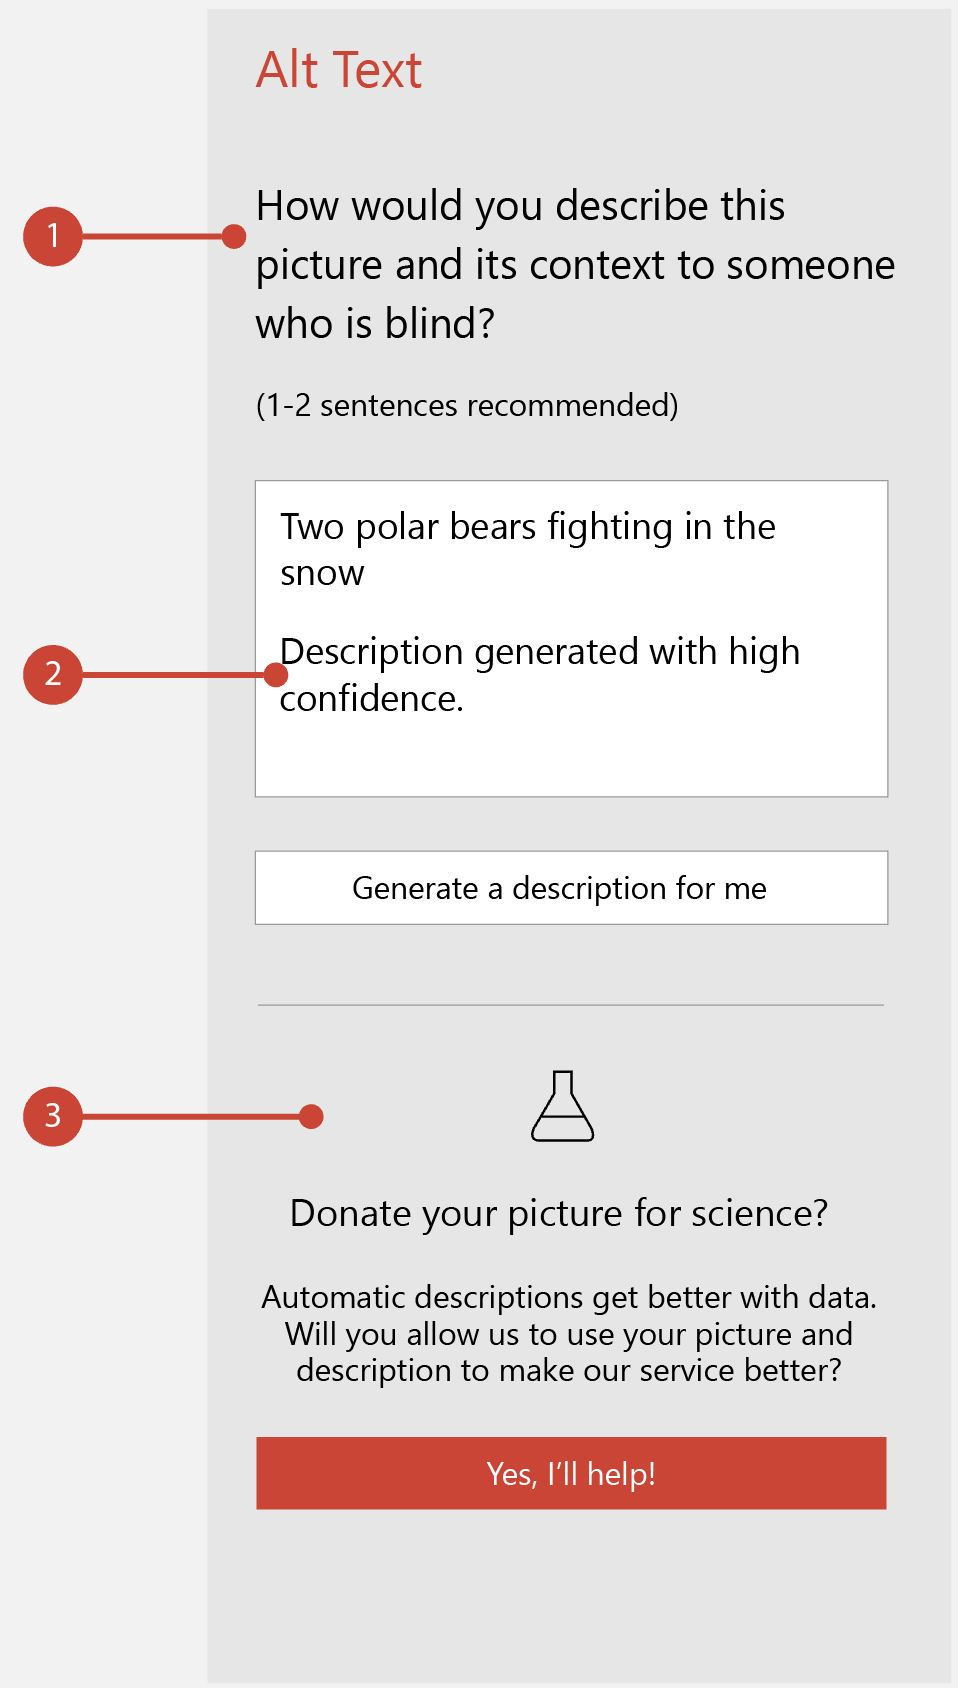
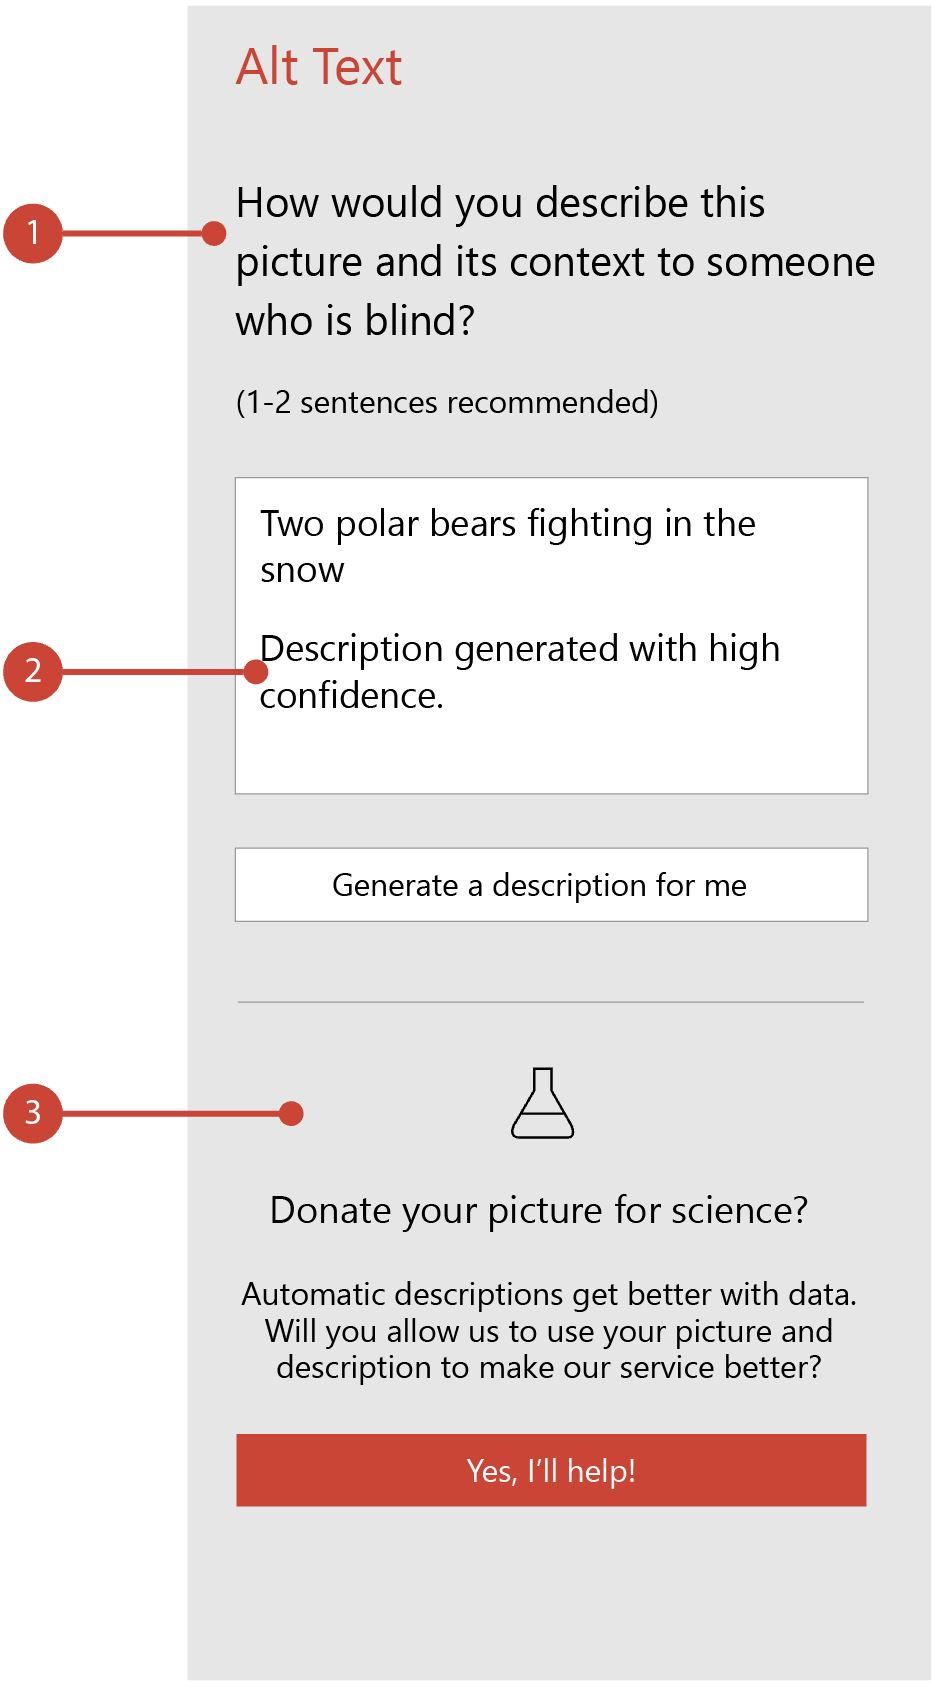
carosel improvements

diff --git a/src/auto-alt-text/index.html b/src/auto-alt-text/index.html
@@ -112,16 +112,17 @@
             <div class="col-md-5">
                 <h3>Methods</h3>
                 <h4 class="mt-4">Interviews</h4>
-                <p>I interviewed people with vision impairments, accessibility experts, and people who make
+                <small>I interviewed people with vision impairments, accessibility experts, and people who make
                     accessible content as part of their job (i.e. government agency employees) to understand how people
-                    create and consume alt text.</p>
+                    create and consume alt text.</small>
                 <h4 class="mt-4">Competitive Analysis</h4>
-                <p>I analyzed alt text experiences across different productivity and social media applications to see
-                    how others have approached this problem space.</p>
+                <small>I analyzed alt text experiences across different productivity and social media applications to
+                    see
+                    how others have approached this problem space.</small>
                 <h4 class="mt-4">Cognitive Walkthrough</h4>
-                <p>I completed a detailed walkthrough of the existing alt text experience in Office to identify
+                <small>I completed a detailed walkthrough of the existing alt text experience in Office to identify
                     strengths and weaknesses
-                    of the design.</p>
+                    of the design.</small>
             </div>
             <div class="col-md mt-5 mt-md-0">
                 <div class="row">
@@ -132,7 +133,7 @@
                             <li><b>Inconsistent experience:</b> Alt text is not always read in a consistent way with
                                 screen readers and other assistive technologies</li>
                             <li><b>Not enough alt text:</b> Most documents don't have alt text at all, which causes
-                                frustration</b></li>
+                                frustration</li>
                         </ul>
                     </div>
                 </div>
@@ -144,7 +145,7 @@
                                 of wasted time navigating through menus repeatedly</li>
                             <li><b>Authoring is confusing:</b> Alt text input currently allows for both a title and a
                                 description, but most screen readers only read the description reliably. This causes
-                                confusion around which field should be used and when</b></li>
+                                confusion around which field should be used and when</li>
                             <li><b>Unsure how to write alt text:</b> There is not enough guidance to support writing
                                 high quality alt text</li>
                         </ul>
@@ -186,7 +187,7 @@
     <div class="container">
         <div class="row">
             <div class="col">
-                <h2>My Role</h2>
+                <h2>My Roles</h2>
                 <p>During the design and implemtation for this project, I filled both a project management and
                     interaction design role, each with distinct responsibilities.</p>
             </div>
@@ -215,7 +216,7 @@
     </div>
 </div>
 
-<!-- Project Manager -->
+<!-- Challenges -->
 
 <div class="container">
     <div class="row">
@@ -224,10 +225,7 @@
         </div>
     </div>
     <div class="row mt-5">
-        <div class="col-md-2">
-            <h3>Challenges</h3>
-        </div>
-        <div class="col-md-5">
+        <div class="col-md-5 offset-1">
             <ol class="fancylist fancylist-red">
                 <li>
                     <h4>Encouraging good alt text</h4>
@@ -302,10 +300,10 @@
                 </li>
             </ol>
         </div>
-        <div class="col text-center">
-            <img alt="Graphic showing the new alt text pane with numbered components corresponding to listed items. 1: A new prompt reading How would you describe this picture and its context to someone who is blind? 1-2 sentences recommended. 2: Appended text to an automatic caption that reads Automatically Generated with High Confidence. 3: A prompt asking users to donate image to science. The prompt has a beaker and a button to agree to donate the image."
+        <div class="col offset-1">
+            <img class="d-block" alt="Graphic showing the new alt text pane with numbered components corresponding to listed items. 1: A new prompt reading How would you describe this picture and its context to someone who is blind? 1-2 sentences recommended. 2: Appended text to an automatic caption that reads Automatically Generated with High Confidence. 3: A prompt asking users to donate image to science. The prompt has a beaker and a button to agree to donate the image."
                 src="/images/Auto_Alt_Text/challenges_pane.jpg" width="320">
-            <img class="mt-5" alt="Graphic showing the photo filter app, which shows a grid of images. The user chooses the photographs in the set and submits them."
+            <img class="mt-5 d-block" alt="Graphic showing the photo filter app, which shows a grid of images. The user chooses the photographs in the set and submits them."
                 src="/images/Auto_Alt_Text/challenges_photofilter.jpg" width="300">
         </div>
     </div>
@@ -325,21 +323,32 @@
         <div class="row mt-5">
             <div class="col-md-11 mx-auto">
                 <div id="carousel-diagrams" class="carousel slide" data-ride="carousel" data-interval="false">
+                    <ul class="carousel-indicators">
+                        <li data-target="#carousel-diagrams" data-slide-to="0" class="active">
+                            <button type="button" class="btn btn-sm"><span tabindex="-1">original</span></button>
+                        </li>
+                        <li data-target="#carousel-diagrams" data-slide-to="1">
+                            <button type="button" class="btn btn-sm"><span tabindex="-1">improved</span></button>
+                        </li>
+                        <li data-target="#carousel-diagrams" data-slide-to="2">
+                            <button type="button" class="btn btn-sm"><span tabindex="-1">full system</span></button>
+                        </li>
+                    </ul>
                     <div class="carousel-outer">
                         <div class="carousel-inner">
                             <div class="carousel-item active text-center">
-                                <img class="d-block w-100 p-5 bg-white" src="/images/Auto_Alt_Text/original_flow.jpg"
+                                <img class="d-block w-100" src="/images/Auto_Alt_Text/original_flow.jpg"
                                     alt="First slide">
                                 <br>
                                 <small>original task flow with 6 distinct steps to add alt text</small>
                             </div>
                             <div class="carousel-item text-center">
-                                <img class="d-block w-100 p-5 bg-white" src="/images/Auto_Alt_Text/new_flow.jpg" alt="Second slide">
+                                <img class="d-block w-100" src="/images/Auto_Alt_Text/new_flow.jpg" alt="Second slide">
                                 <br>
                                 <small>Automatic Alt Text reduces alt text task flow to as little as one step</small>
                             </div>
                             <div class="carousel-item text-center">
-                                <img class="d-block w-100 p-5 bg-white" src="/images/Auto_Alt_Text/integrated_flow.jpg"
+                                <img class="d-block w-100" src="/images/Auto_Alt_Text/integrated_flow.jpg"
                                     alt="Third slide">
                                 <br>
                                 <small>Automatic Alt Text is seamlessly integrated into the insert picture task flow</small>
@@ -353,17 +362,6 @@
                             <svg height="25" width="25" xmlns='http://www.w3.org/2000/svg' fill='#59565f' viewBox='0 0 8 8'>
                                 <path d='M2.75 0l-1.5 1.5 2.5 2.5-2.5 2.5 1.5 1.5 4-4-4-4z' /></svg>
                         </a>
-                        <ol class="carousel-indicators">
-                            <li data-target="#carousel-diagrams" data-slide-to="0" class="active">
-                                <img class="d-block" src="/images/Auto_Alt_Text/original_flow.jpg" alt="First slide">
-                            </li>
-                            <li data-target="#carousel-diagrams" data-slide-to="1">
-                                <img class="d-block" src="/images/Auto_Alt_Text/new_flow.jpg" alt="First slide">
-                            </li>
-                            <li data-target="#carousel-diagrams" data-slide-to="2">
-                                <img class="d-block" src="/images/Auto_Alt_Text/integrated_flow.jpg" alt="First slide">
-                            </li>
-                        </ol>
                     </div>
                 </div>
             </div>

diff --git a/src/css/site.less b/src/css/site.less
@@ -15,7 +15,7 @@ body {
   margin: 0;
   padding: 0;
   overflow-x: hidden;
-  font-family: 'Montserrat', sans-serif;
+  font-family: "Montserrat", sans-serif;
   // light: 300, regular: 400, medium:500,
   // semi-bold:600, bold: 700
 }
@@ -184,7 +184,7 @@ ul {
       text-indent: -14px;
 
       &:before {
-        content: '+';
+        content: "+";
         margin-right: 4px;
       }
     }
@@ -382,7 +382,8 @@ footer {
   padding: 0;
   margin: 0;
 
-  h4, h5 {
+  h4,
+  h5 {
     display: inline;
     margin-left: 15px;
   }
@@ -419,30 +420,12 @@ footer {
 
   &.fancylist-red {
     li::before {
-      background-color: #CA4535;
+      background-color: #ca4535;
     }
   }
 }
 
 #carousel-diagrams {
-  .carousel-control-prev {
-    top: -30px;
-  }
-
-  .carousel-control-next {
-    top: -30px;
-  }
-
-  @media (min-width: @small) {
-    .carousel-control-prev {
-      top: -170px;
-    }
-
-    .carousel-control-next {
-      top: -170px;
-    }
-  }
-
   @media (min-width: @medium) {
     .carousel-control-prev {
       left: -100px;
@@ -454,21 +437,34 @@ footer {
   }
 
   .carousel-indicators {
-    @media (max-width: @small) {
-      display: none;
-    }
-
     position: static;
-    margin: 25px auto;
+    margin: 15px auto;
 
     li {
-      width: 180px;
       height: auto;
-      outline: 1px solid @lightgrey;
-      margin: 0 10px;
+      width: auto;
+      margin: 0 5px;
+      background-color: transparent;
 
       &.active {
-        outline: 2px solid @darkgrey;
+        .btn {
+          background-color: @darkgrey;
+          color: #fff;
+        }
+      }
+
+      .btn {
+        display: block;
+        font-size: 12px;
+        background-color: transparent;
+        border: 1px solid @darkgrey;
+        width: 120px;
+        padding: 2px 0;
+
+        span {
+          outline: none;
+          padding: 4px 30px;
+        }
       }
     }
   }
